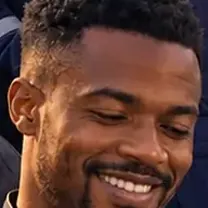
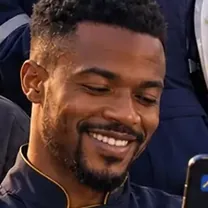
Homepage: whole faces around "Join other people worldwide" (wider crops: hair, chin and shoulders)
Claude-Session: https://claude.ai/code/session_015ASeiR4KkcEsuYPMxYb7QY

diff --git a/.github/tests/site-polish.js b/.github/tests/site-polish.js
@@ -31,6 +31,7 @@ ok(!/counted to 8 October'\]/.test(perf),'"Profitable years" date follows the ma
   ok(await q.evaluate(()=>{ const m=document.getElementById('mobileMenu'), k=[...m.children]; const st=m.querySelector('.mm-start'), fr=m.querySelector('.mm-free'), last=m.querySelector('.mm-sec:last-of-type'); return !m.querySelector('.js-login')&&st&&fr&&k.indexOf(st)>k.indexOf(last)&&k.indexOf(fr)===k.indexOf(st)+1; }),'phone menu: no Log in button; Get started and Create a free account sit at the bottom');
   await q.evaluate(()=>document.querySelector('.cta').scrollIntoView({behavior:'instant',block:'center'})); await q.waitForTimeout(1500);
   ok(await q.evaluate(()=>{ const f=[...document.querySelectorAll('.cta .tile.face')].filter(x=>getComputedStyle(x).display!=='none'); const h=document.querySelector('.cta h2').getBoundingClientRect(), b=document.querySelector('.cta .btn').getBoundingClientRect(); return f.length===8&&f.every(x=>{ const r=x.getBoundingClientRect(), im=x.querySelector('img'); return im.complete&&im.naturalWidth>0&&(r.bottom<=h.top||r.top>=b.bottom); }); }),'phone: 8 faces above and below the headline, none covering the text or button');
+  ok(await q.evaluate(()=>{ const W=document.documentElement.clientWidth, c=document.querySelector('.cta').getBoundingClientRect(); return [...document.querySelectorAll('.cta .tile.face')].filter(x=>getComputedStyle(x).display!=='none').every(x=>{ const r=x.getBoundingClientRect(); return r.left>=0&&r.right<=W&&r.top>=c.top&&r.bottom<=c.bottom; }); }),'phone: every face tile is whole on screen (none cut by the screen edge or the section)');
   ok(await q.evaluate(()=>{ const c=[...document.querySelectorAll('.mk-stack .mk-card')]; return c.length===5&&c.every(x=>x.querySelector('.phone')); }),'phone: Markets shows 5 market cards, each with its phone');
   ok(await q.evaluate(()=>[...document.querySelectorAll('.mk-card .mk-ph')].every(ph=>{ const d=ph.querySelector('.mk-dev').getBoundingClientRect(), sc=ph.querySelector('.mk-scr'); return /Running/.test(ph.textContent)&&/\+98,644%/.test(ph.textContent)&&/Portfolio/.test(ph.textContent)&&ph.querySelectorAll('.mk-tile').length===2&&[...ph.querySelectorAll('.mk-tile')].every(t=>{ const r=t.getBoundingClientRect(); return r.left>=d.right-1||r.right<=d.left+1; })&&![...sc.querySelectorAll('*')].some(e=>e.getBoundingClientRect().right>sc.getBoundingClientRect().right+1); })),'phone: each market shows FTM MACHINE running, the Portfolio +98,644% and an open trade, tiles beside the phone, nothing cut off');
   ok(await q.evaluate(()=>{ const v=[...document.querySelectorAll('.perf-grid .perf-tile')].filter(x=>getComputedStyle(x).display!=='none').map(x=>x.querySelector('span').textContent); return v.length===2&&!v.some(x=>/Trades open|Risk profiles/.test(x)); }),'phone: Performance shows 2 tiles, without "Trades open at a time" and "Risk profiles"');

diff --git a/HANDOFF.md b/HANDOFF.md
@@ -745,3 +745,5 @@ api/v1/passkey.js (@simplewebauthn/server). Passkeys are stored in the Supabase 
 - Waiting for Gospel: privacy.html placeholders and legal review note, review/customer-count claims (12,400 reviews, 1M+, $2B+), testimonials wording, sale end date, "Five years" vs 6.8 years headline, registered address.
 - 16 Nov: "Why we recommend 2,000 or more" email (passwordEmail.html('topup2000'), Notices.topup, once per customer per 30 days, mail/topup-<mid>.json). Staff console: Problems lists every account below 2,000 with "Send upgrade email (2,000)"; Messages > Who "An account below 2,000" + Start from "Upgrade to 2,000"; customer page Plan > Send upgrade email. Replies ("I have topped up") go to the support mailbox; FTM ENGINE must then refresh the account size (engine sizes trades from the balance at activation).
 - 16 Nov: free accounts see the leaderboard (read only): board .soc-lock hidden for .free; names are not links for free (FTM.isFreeView()); community `find` refuses non-paid, non-staff logins (READ_ONLY). Community and connecting an account stay subscriber-only. Test free-board.js.
+
+- CTA faces (`faces/1-10.webp`, 18 Nov 2026): owner wanted whole faces, not half faces. Crops from hero-bg-1..5 (1920 wide) at centre (x*2.4, y*2.4+30) with half-size 128px, saved 208px: 1 bg1 540,140 · 2 bg1 672,140 · 3 bg1 535,272 · 4 bg2 519,180 · 5 bg2 649,238 · 6 bg3 608,203 · 7 bg4 660,88 · 8 bg4 640,250 · 9 bg5 517,110 · 10 bg5 598,222. Head, chin and shoulders must all show.
